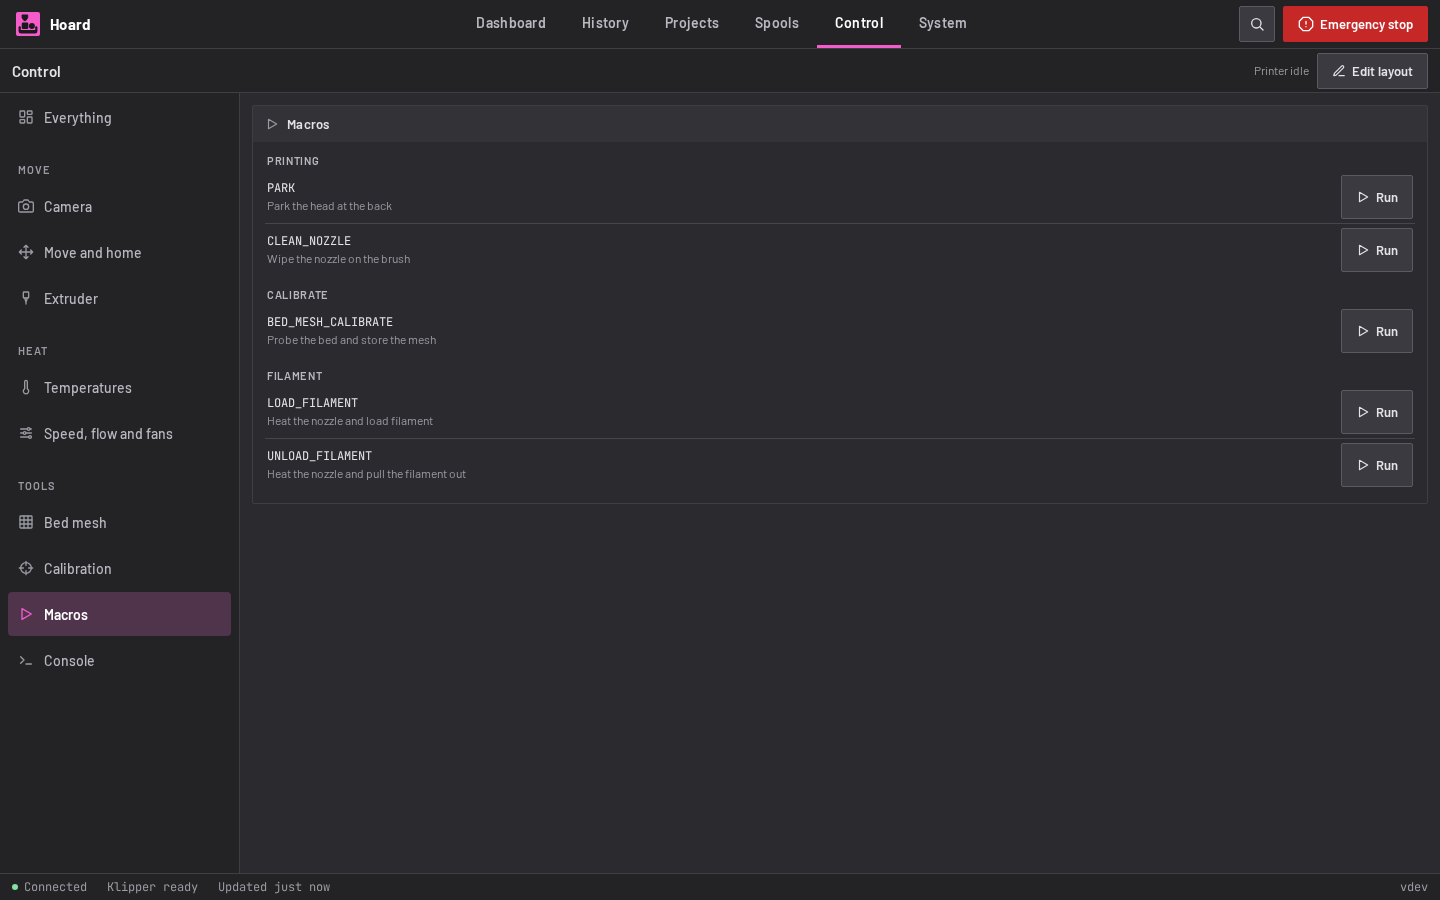
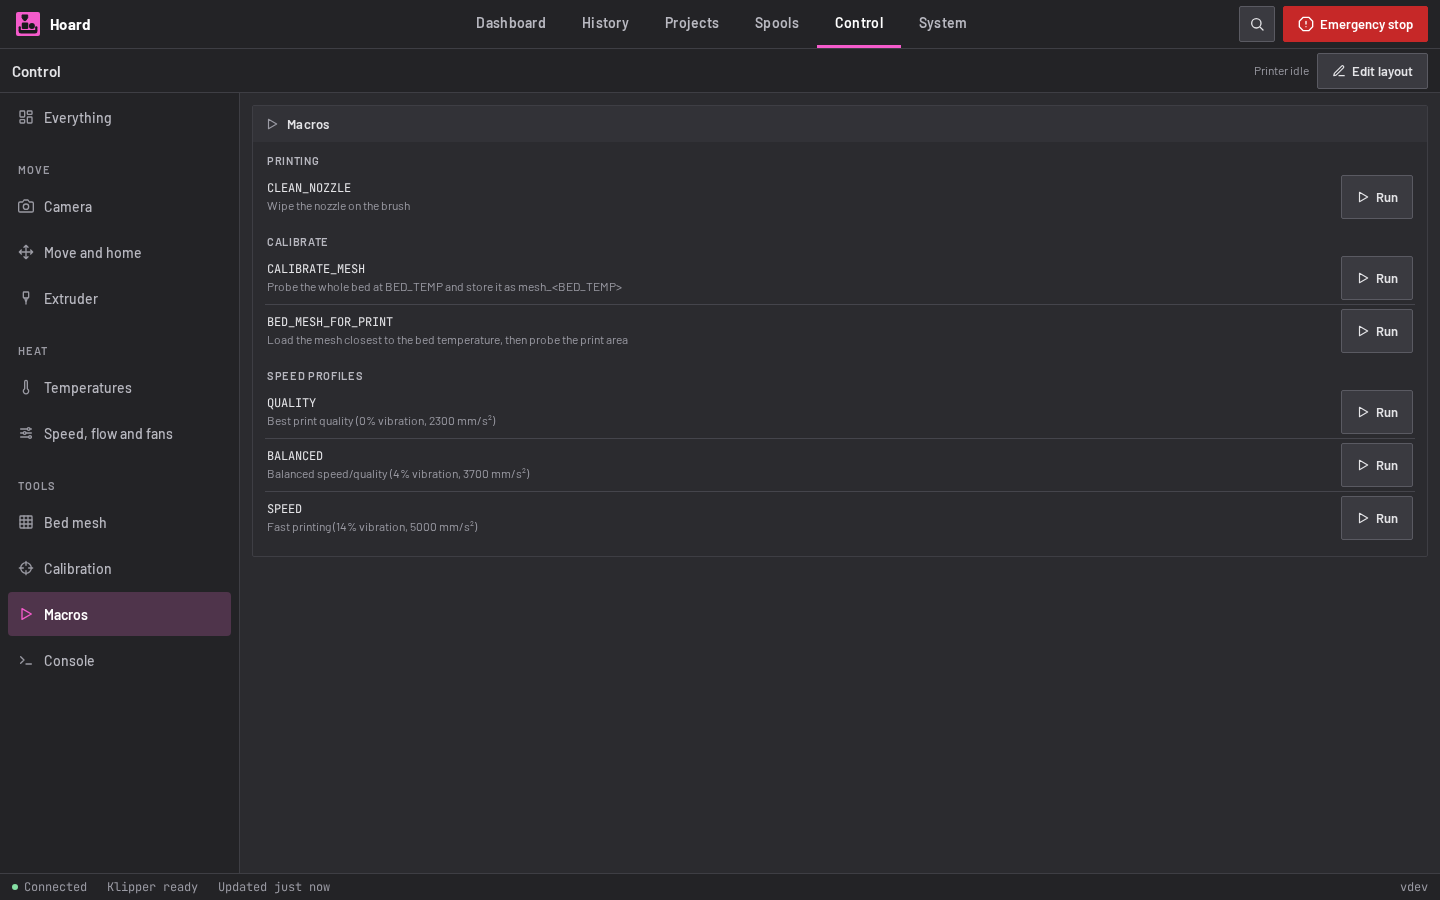
feat(control): no load and unload buttons on the extruder card
They ran the macros LOAD_FILAMENT and UNLOAD_FILAMENT, which a printer does not
have by default. Loading is extruding a length, and the card does that.

diff --git a/frontend/src/components/control-extruder-card.ts b/frontend/src/components/control-extruder-card.ts
@@ -52,10 +52,6 @@ export class ControlExtruderCard extends ControlCard {
         <div class="control-button-row">
           ${this.renderAction('Retract', () => this.extrude(-1))} ${this.renderAction('Extrude', () => this.extrude(1))}
         </div>
-        <div class="control-button-row">
-          ${this.renderAction('Load filament', () => void this.command('macro', { name: 'LOAD_FILAMENT' }))}
-          ${this.renderAction('Unload', () => void this.command('macro', { name: 'UNLOAD_FILAMENT' }))}
-        </div>
         ${this.renderLockNote()}`,
     )
   }

diff --git a/frontend/parity/control_fixture.py b/frontend/parity/control_fixture.py
@@ -29,11 +29,24 @@ STATUS = {
     ],
 }
 MACROS = [
-    {"name": "PARK", "description": "Park the head at the back", "category": "Printing"},
     {"name": "CLEAN_NOZZLE", "description": "Wipe the nozzle on the brush", "category": "Printing"},
-    {"name": "BED_MESH_CALIBRATE", "description": "Probe the bed and store the mesh", "category": "Calibrate"},
-    {"name": "LOAD_FILAMENT", "description": "Heat the nozzle and load filament", "category": "Filament"},
-    {"name": "UNLOAD_FILAMENT", "description": "Heat the nozzle and pull the filament out", "category": "Filament"},
+    {
+        "name": "CALIBRATE_MESH",
+        "description": "Probe the whole bed at BED_TEMP and store it as mesh_<BED_TEMP>",
+        "category": "Calibrate",
+    },
+    {
+        "name": "BED_MESH_FOR_PRINT",
+        "description": "Load the mesh closest to the bed temperature, then probe the print area",
+        "category": "Calibrate",
+    },
+    {"name": "QUALITY", "description": "Best print quality (0% vibration, 2300 mm/s²)", "category": "Speed Profiles"},
+    {
+        "name": "BALANCED",
+        "description": "Balanced speed/quality (4% vibration, 3700 mm/s²)",
+        "category": "Speed Profiles",
+    },
+    {"name": "SPEED", "description": "Fast printing (14% vibration, 5000 mm/s²)", "category": "Speed Profiles"},
 ]
 CONSOLE_LINES = [
     ("command", "G28"),

diff --git a/frontend/parity/browser_settings.py b/frontend/parity/browser_settings.py
@@ -15,9 +15,7 @@ COLOR_SCHEME = "dark"
 # The dashboard shows "finish at 18:23" for a print with 3h27m left, so the clock is fixed at 14:56 UTC, the timezone of the browser.
 FIXED_TIME = datetime(2026, 10, 27, 14, 56, 0, tzinfo=UTC)
 
-FREEZE_MOTION_STYLE = (
-    "*, *::before, *::after { animation: none !important; transition: none !important; caret-color: transparent !important; }"
-)
+FREEZE_MOTION_STYLE = "*, *::before, *::after { animation: none !important; transition: none !important; caret-color: transparent !important; }"
 
 CONTEXT_OPTIONS = {
     "device_scale_factor": 1,

diff --git a/frontend/parity/tests/test_image_comparison.py b/frontend/parity/tests/test_image_comparison.py
@@ -74,9 +74,7 @@ def test_difference_image_marks_differing_pixels_in_red():
 
 
 def test_difference_image_dims_pixels_that_match():
-    difference_image = create_difference_image(
-        create_solid_image(WHITE), create_solid_image(WHITE), CHANNEL_TOLERANCE
-    )
+    difference_image = create_difference_image(create_solid_image(WHITE), create_solid_image(WHITE), CHANNEL_TOLERANCE)
     assert difference_image.convert("RGB").getpixel((0, 0)) != WHITE
 
 
